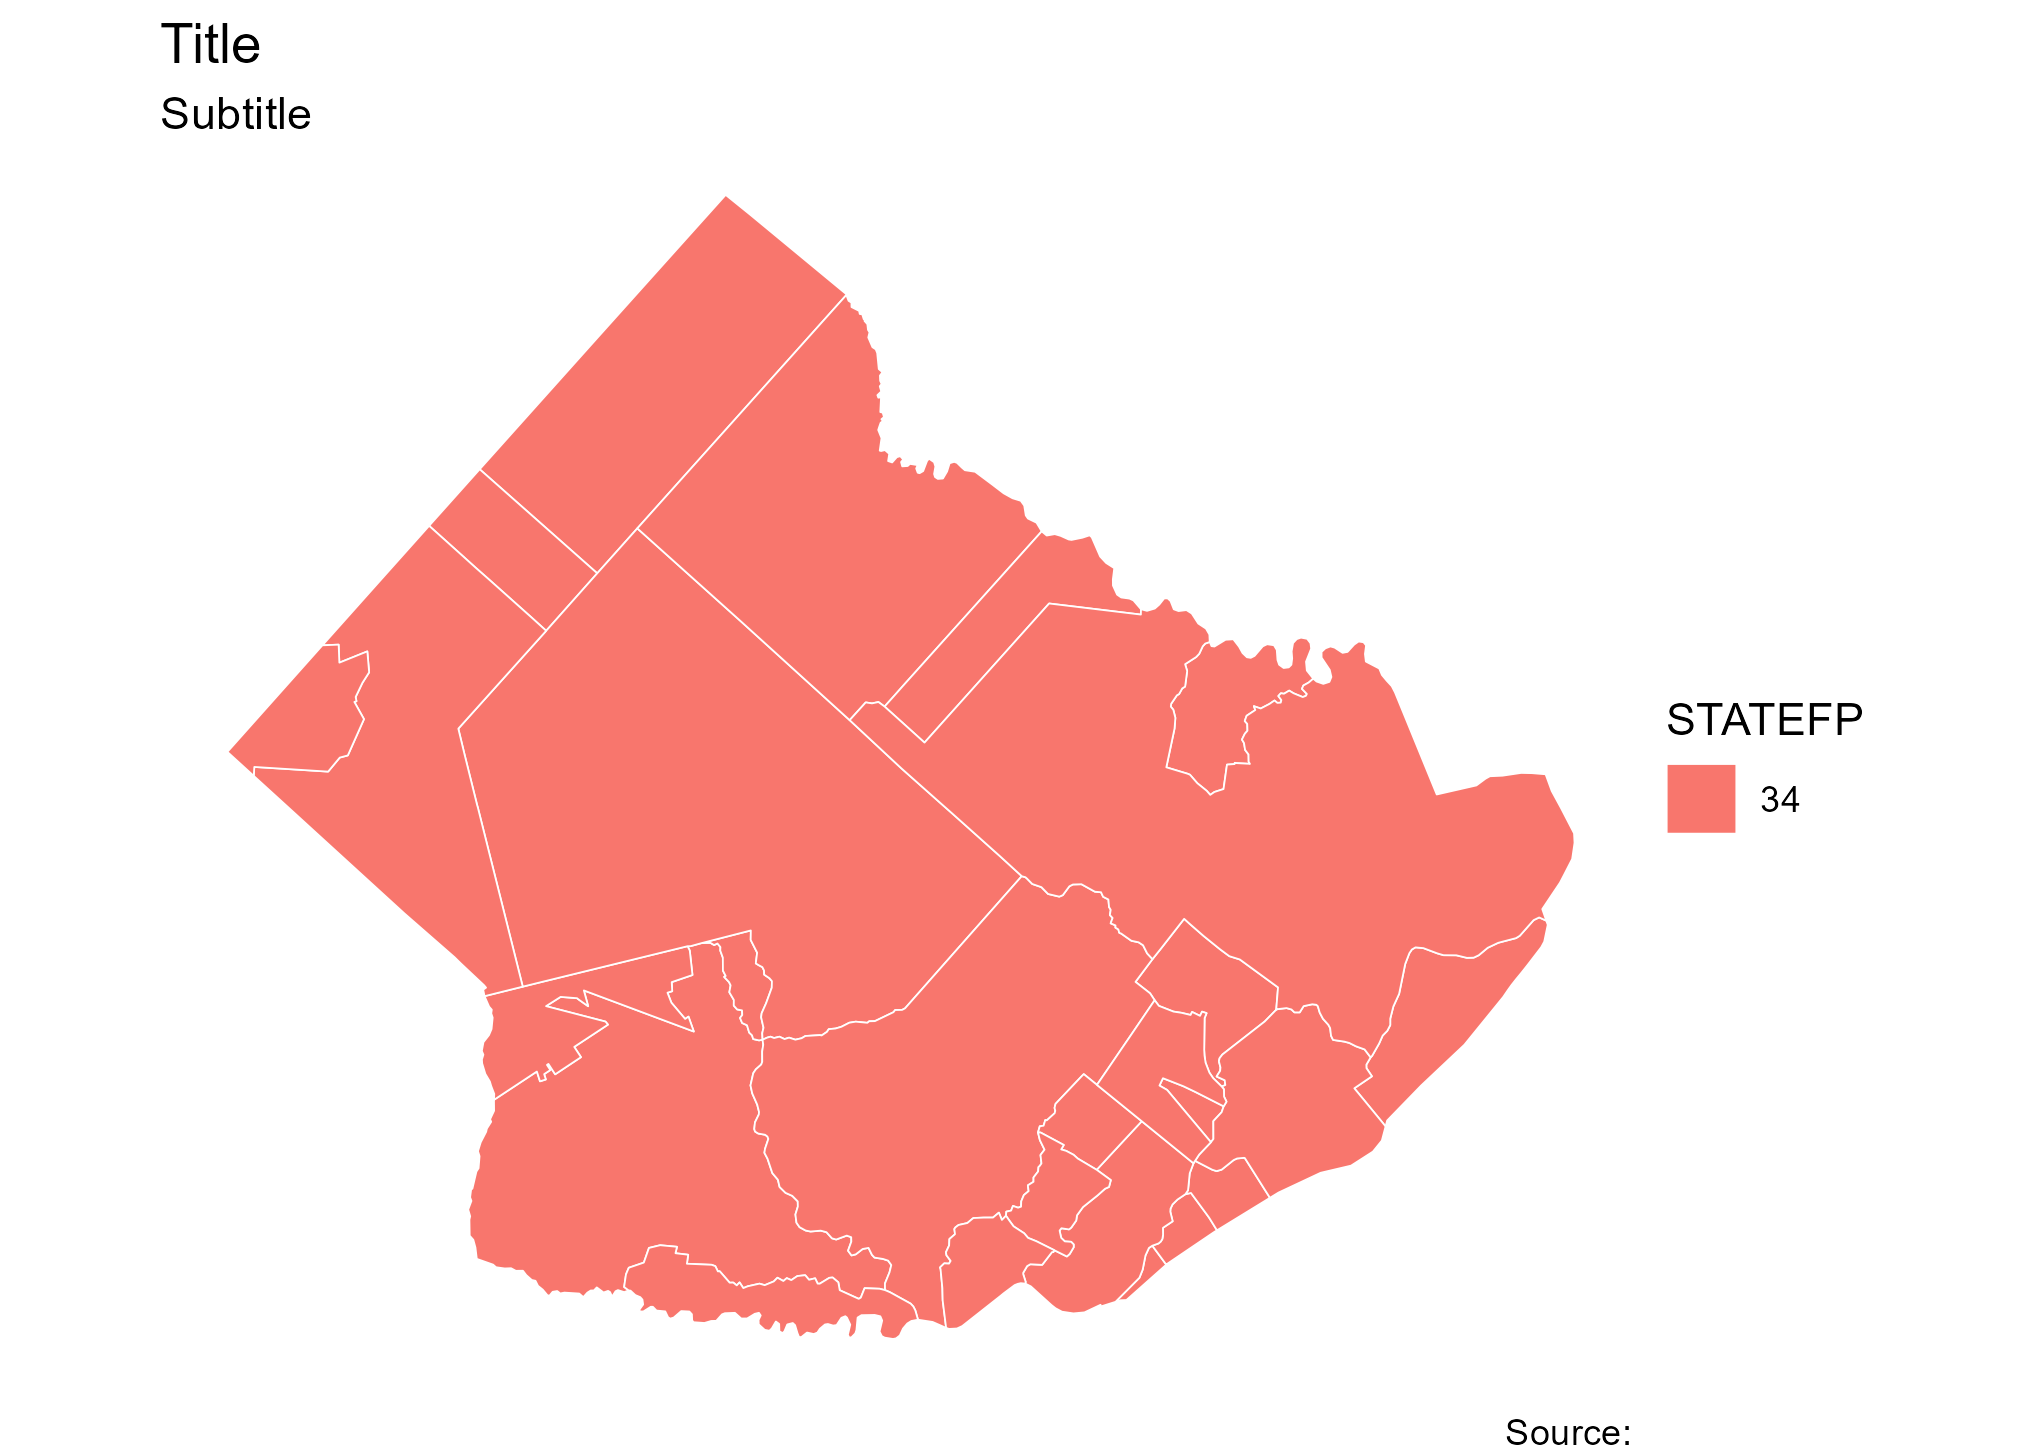
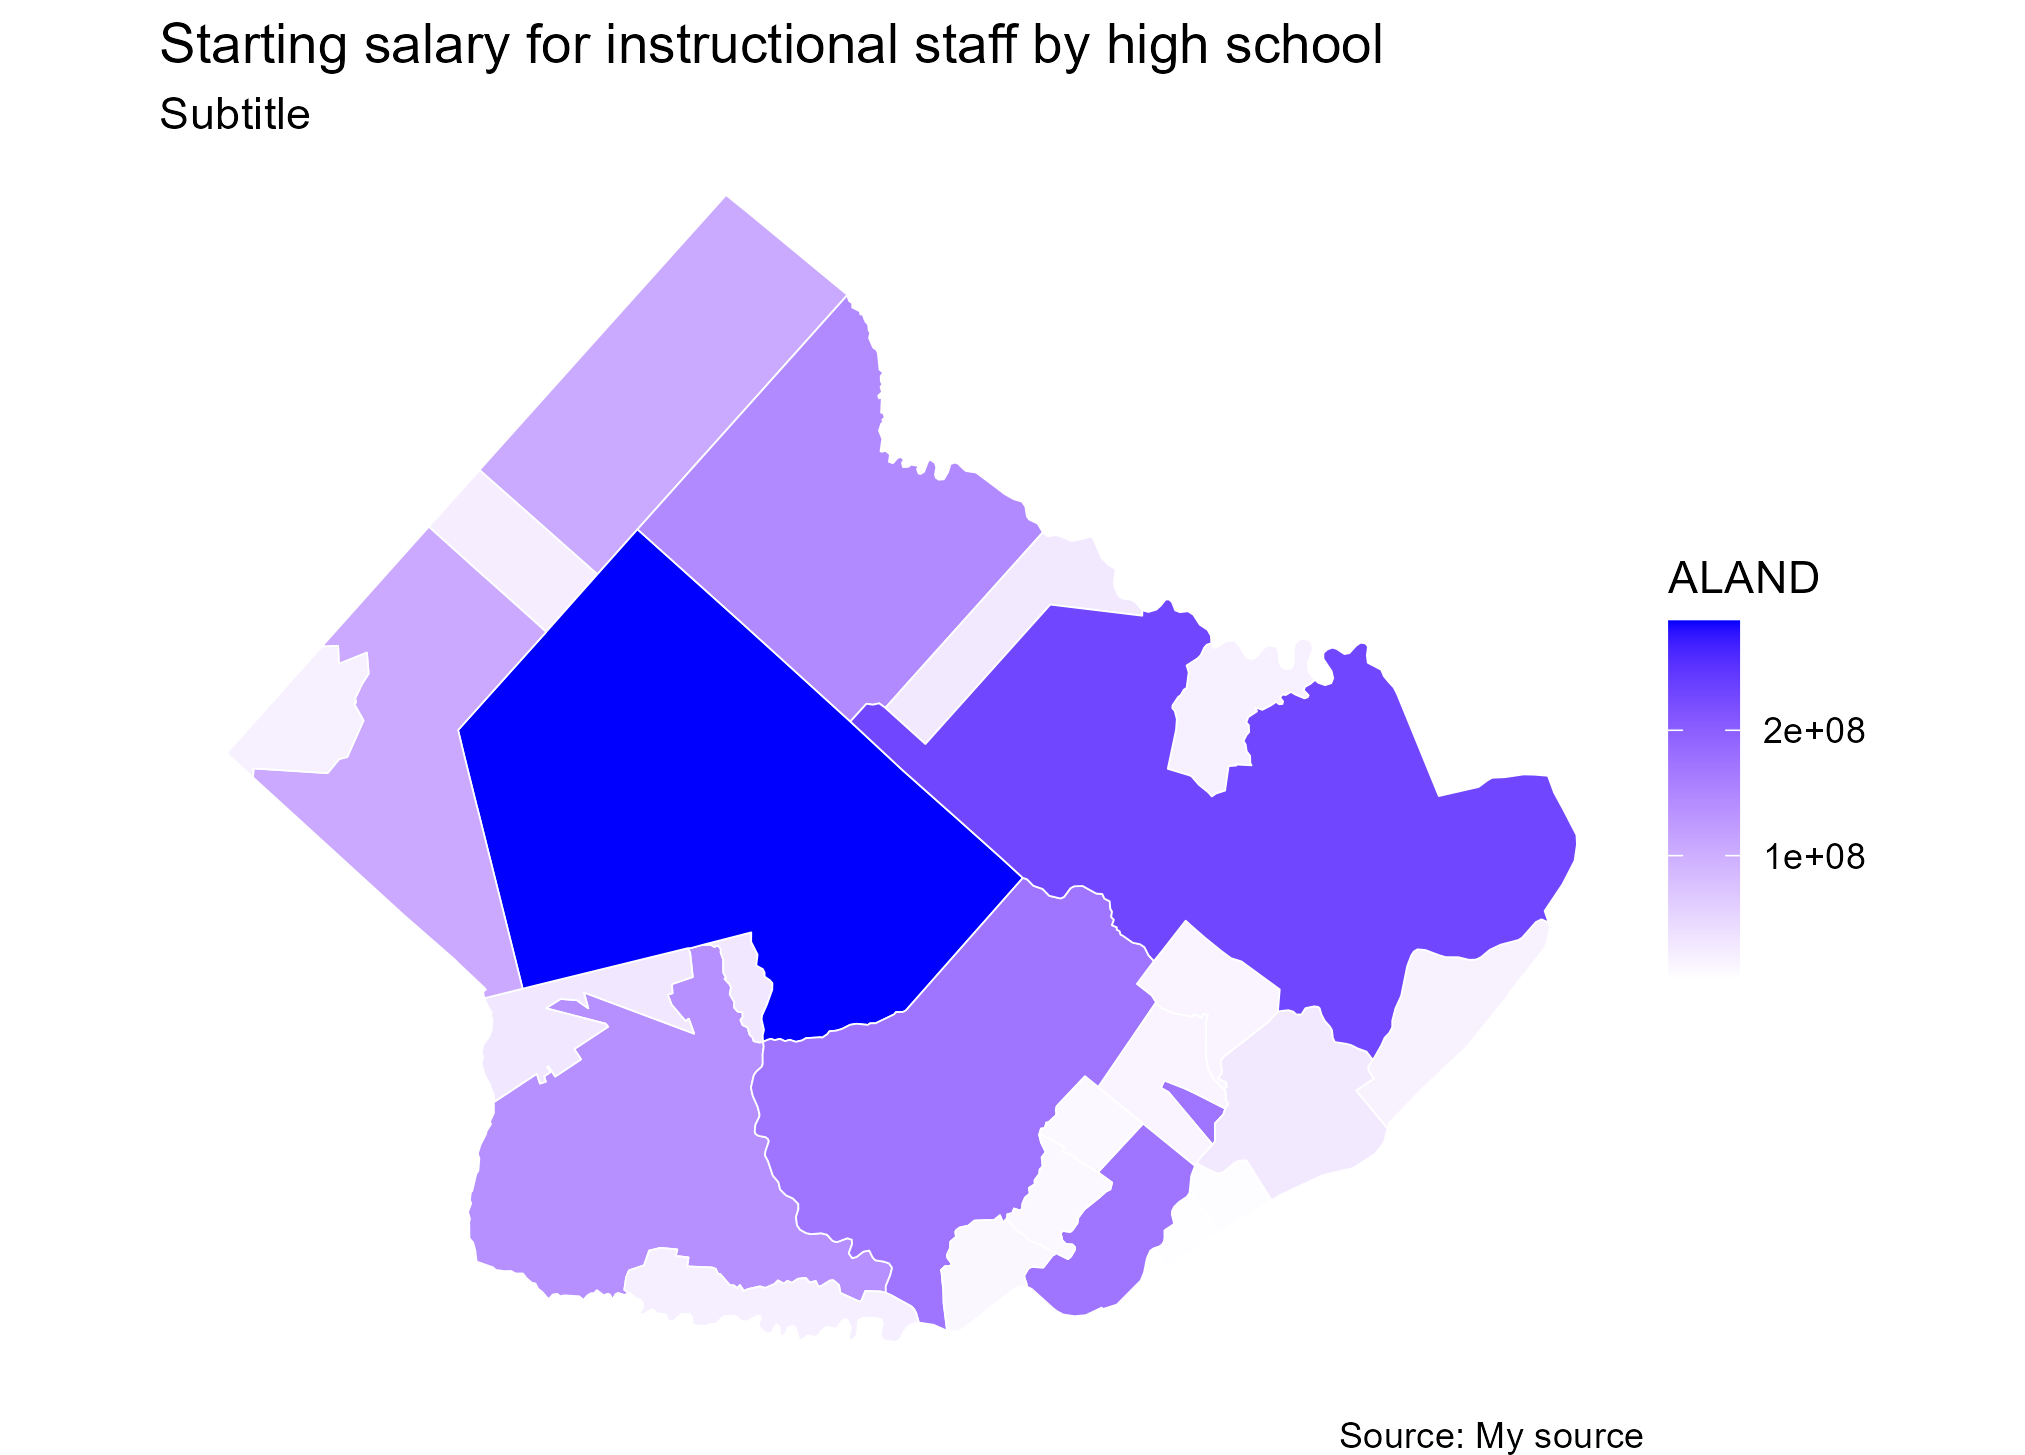
handwritten tables, beginning merge
hand-wrote town-to-district lookup table

diff --git a/README.md b/README.md
@@ -10,13 +10,25 @@ Sean Fudala's final project for STA 220.
 
 # Data
 
+Source 1: New Jersey Department of Education, Taxpayers’ Guide to Education Spending, 
+          "Total Spending Per Pupil", 2023-2024
+             https://www.nj.gov/education/guide/2025tges.shtml
+             Out: data/spending_per_student.xlsx
+
 This project examines data of high schools in Atlantic County, New Jersey. The
 schools used are the following:
 
-#   Source 2: U.S. Census Bureau, cartographic boundary files (1:500,000). tigris downloads them.
-#             Counties, towns (county subdivisions), and school districts: 2022.
-#             https://www.census.gov/geographies/mapping-files/time-series/geo/cartographic-boundary.html
-#             Out: data/boundaries/nj_counties.gpkg, nj_towns.gpkg, nj_school_districts.gpkg
+Source 2: U.S. Census Bureau, cartographic boundary files (1:500,000). tigris downloads them.
+             Counties, towns (county subdivisions), and school districts: 2022.
+             https://www.census.gov/geographies/mapping-files/time-series/geo/cartographic-boundary.html
+             Out: data/boundaries/nj_counties.gpkg, nj_towns.gpkg, nj_school_districts.gpkg
+             
+Source 3: Handwritten data of Atlantic County towns, high schools, and school districts
+             Compiled from: 
+             Out: data/town_district_lookup.xlsx
+             
+
+
 
 # Visualizations
 
